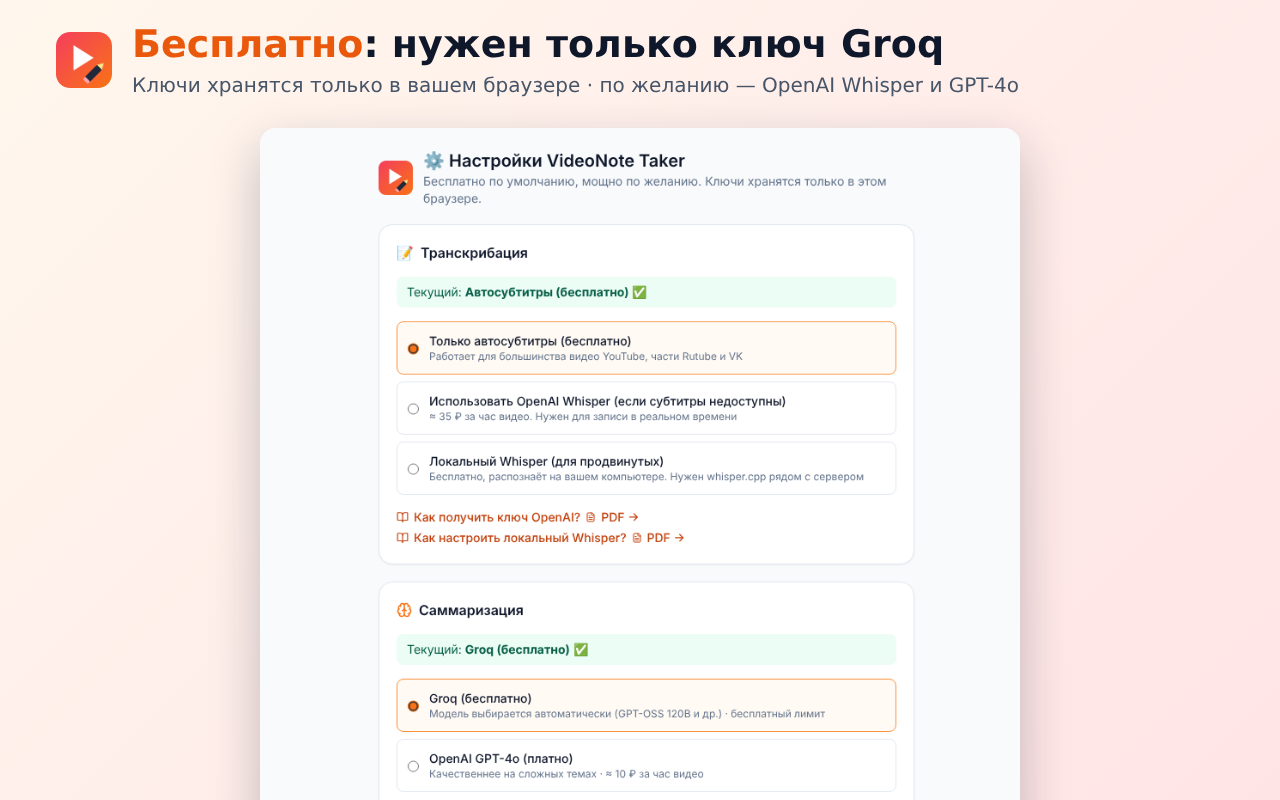
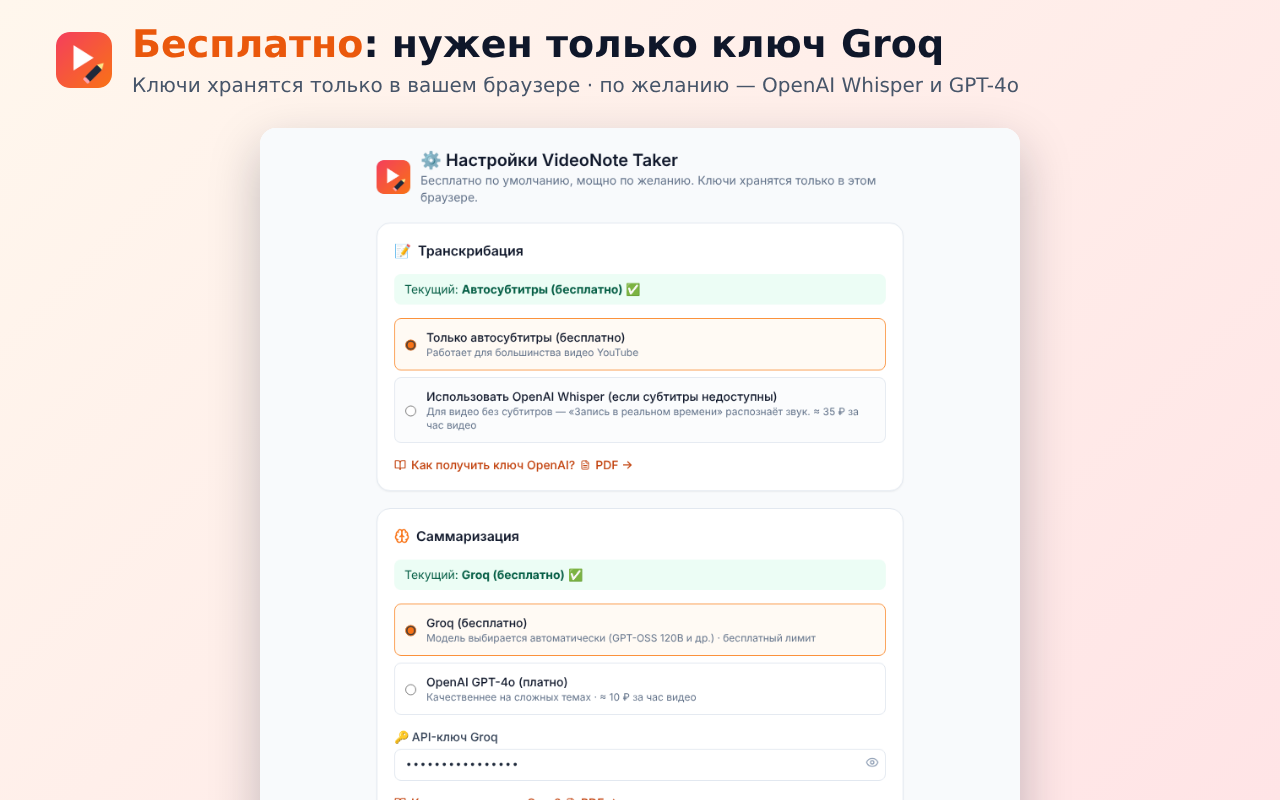
Chrome Web Store: версия «только YouTube», без сервера
- Сборка для магазина работает только на YouTube: content scripts и ресурсы только для
  youtube.com, ссылки Rutube/VK помечаются «пока только YouTube», в настройках нет
  адреса сервера и локального Whisper; краткое описание в манифесте — про YouTube.
- Полная версия (Rutube/VK через свой сервер) остаётся: VITE_YOUTUBE_ONLY / store build.
- Тексты витрины, политика конфиденциальности и ответы для проверки — без сервера.
- e2e: режим E2E_STORE=1 (npm run e2e:store), картинки витрины из версии для магазина.

Claude-Session: https://claude.ai/code/session_01F471TCYQKqYsHZexNvzsfr

diff --git a/extension/src/ui/popup/Popup.tsx b/extension/src/ui/popup/Popup.tsx
@@ -1,7 +1,8 @@
 import { ArrowLeft, Link2, Search, Trash2 } from 'lucide-react';
 import { useEffect, useMemo, useState } from 'react';
 import type { VideoNote } from '@domain/entities/VideoNote';
-import { VIDEO_PLATFORMS, type VideoPlatform } from '@domain/valueObjects/VideoPlatform';
+import { VIDEO_PLATFORMS, VideoPlatform } from '@domain/valueObjects/VideoPlatform';
+import { buildConfig } from '@infrastructure/config';
 import { VIDEO_TYPES, type VideoType } from '@domain/valueObjects/VideoType';
 import { VideoUrl } from '@domain/valueObjects/VideoUrl';
 import { PLATFORM_LABELS, VIDEO_TYPE_LABELS } from '@infrastructure/exporters/labels';
@@ -13,6 +14,11 @@ import { useContainer, useNote, useNotesList, useRealtime, useSettings, useTask 
 import { NoteMeta, NoteView } from '../shared/NoteView';
 
 type Screen = 'new' | 'history';
+
+/** В сборке «только YouTube» ссылки Rutube/VK не принимаются. */
+function isAllowed(url: VideoUrl): boolean {
+  return !buildConfig.youtubeOnly || url.getPlatform() === VideoPlatform.YOUTUBE;
+}
 
 function errorPayload(error: unknown): { code: string; message: string } {
   const e = error as Error & { code?: string };
@@ -31,7 +37,8 @@ function NewNoteScreen() {
   // Ссылка из активной вкладки, если это видео
   useEffect(() => {
     void chrome.tabs.query({ active: true, currentWindow: true }).then(([tab]) => {
-      if (tab?.url && VideoUrl.isSupported(tab.url)) {
+      const tabVideo = tab?.url ? VideoUrl.tryCreate(tab.url) : null;
+      if (tab?.url && tabVideo && isAllowed(tabVideo)) {
         setUrl(tab.url);
         setTitle(tab.title?.replace(/^\(\d+\)\s*/, '').replace(/\s*[-|—]\s*(YouTube|RUTUBE|VK.*)$/i, ''));
         setActiveTabId(tab.id ?? null);
@@ -39,7 +46,8 @@ function NewNoteScreen() {
     });
   }, []);
 
-  const videoUrl = useMemo(() => VideoUrl.tryCreate(url), [url]);
+  const parsedUrl = useMemo(() => VideoUrl.tryCreate(url), [url]);
+  const videoUrl = parsedUrl && isAllowed(parsedUrl) ? parsedUrl : null;
   const noteId = videoUrl?.getKey() ?? null;
   const { note } = useNote(noteId);
   const task = useTask(noteId);
@@ -70,7 +78,7 @@ function NewNoteScreen() {
                 setTitle(undefined);
                 setActiveTabId(null);
               }}
-              placeholder="Ссылка на YouTube, Rutube или VK Видео"
+              placeholder={buildConfig.youtubeOnly ? 'Ссылка на видео YouTube' : 'Ссылка на YouTube, Rutube или VK Видео'}
               className="w-full rounded-lg border border-slate-200 py-2 pl-9 pr-24 text-sm focus:border-orange-400 focus:outline-none"
             />
             {url && (
@@ -80,7 +88,7 @@ function NewNoteScreen() {
                   videoUrl ? 'bg-emerald-50 text-emerald-700' : 'bg-red-50 text-red-600',
                 )}
               >
-                {videoUrl ? `✓ ${PLATFORM_LABELS[videoUrl.getPlatform()]}` : 'не поддерживается'}
+                {videoUrl ? `✓ ${PLATFORM_LABELS[videoUrl.getPlatform()]}` : parsedUrl ? 'пока только YouTube' : 'не поддерживается'}
               </span>
             )}
           </label>
@@ -189,14 +197,16 @@ function HistoryScreen() {
           />
         </div>
         <div className="flex gap-2">
-          <select value={platform} onChange={(e) => setPlatform(e.target.value as VideoPlatform | '')} className="flex-1 rounded-lg border border-slate-200 px-2 py-1 text-xs" aria-label="Платформа">
-            <option value="">Все платформы</option>
-            {VIDEO_PLATFORMS.map((p) => (
-              <option key={p} value={p}>
-                {PLATFORM_LABELS[p]}
-              </option>
-            ))}
-          </select>
+          {!buildConfig.youtubeOnly && (
+            <select value={platform} onChange={(e) => setPlatform(e.target.value as VideoPlatform | '')} className="flex-1 rounded-lg border border-slate-200 px-2 py-1 text-xs" aria-label="Платформа">
+              <option value="">Все платформы</option>
+              {VIDEO_PLATFORMS.map((p) => (
+                <option key={p} value={p}>
+                  {PLATFORM_LABELS[p]}
+                </option>
+              ))}
+            </select>
+          )}
           <select value={type} onChange={(e) => setType(e.target.value as VideoType | '')} className="flex-1 rounded-lg border border-slate-200 px-2 py-1 text-xs" aria-label="Тип видео">
             <option value="">Все типы</option>
             {VIDEO_TYPES.map((t) => (

diff --git a/extension/src/ui/settings/SettingsScreen.tsx b/extension/src/ui/settings/SettingsScreen.tsx
@@ -4,6 +4,7 @@ import type { SettingsFieldError } from '@application/useCases/SaveSettingsUseCa
 import type { BackendHealth } from '@domain/ports/IBackendClient';
 import { SummaryProvider, TranscriptionProvider } from '@domain/valueObjects/Providers';
 import type { UserSettings } from '@domain/valueObjects/UserSettings';
+import { buildConfig } from '@infrastructure/config';
 import { openGuide } from '../shared/actions';
 import { Button, cx, LanguageSelect, Logo, VideoTypeSelector } from '../shared/components';
 import { useContainer, useSettings } from '../shared/hooks';
@@ -148,27 +149,29 @@ export function SettingsScreen() {
               checked={draft.transcriptionProvider === TranscriptionProvider.SUBTITLES}
               onChange={() => set('transcriptionProvider', TranscriptionProvider.SUBTITLES)}
               title="Только автосубтитры (бесплатно)"
-              hint="Работает для большинства видео YouTube, части Rutube и VK"
+              hint={buildConfig.youtubeOnly ? 'Работает для большинства видео YouTube' : 'Работает для большинства видео YouTube, части Rutube и VK'}
             />
             <Radio
               checked={draft.transcriptionProvider === TranscriptionProvider.OPENAI_WHISPER}
               onChange={() => set('transcriptionProvider', TranscriptionProvider.OPENAI_WHISPER)}
               title="Использовать OpenAI Whisper (если субтитры недоступны)"
-              hint="≈ 35 ₽ за час видео. Нужен для записи в реальном времени"
+              hint={buildConfig.youtubeOnly ? 'Для видео без субтитров — «Запись в реальном времени» распознаёт звук. ≈ 35 ₽ за час видео' : '≈ 35 ₽ за час видео. Нужен для записи в реальном времени'}
             />
-            <Radio
-              checked={draft.transcriptionProvider === TranscriptionProvider.LOCAL_WHISPER}
-              onChange={() => set('transcriptionProvider', TranscriptionProvider.LOCAL_WHISPER)}
-              title="Локальный Whisper (для продвинутых)"
-              hint="Бесплатно, распознаёт на вашем компьютере. Нужен whisper.cpp рядом с сервером"
-            />
+            {!buildConfig.youtubeOnly && (
+              <Radio
+                checked={draft.transcriptionProvider === TranscriptionProvider.LOCAL_WHISPER}
+                onChange={() => set('transcriptionProvider', TranscriptionProvider.LOCAL_WHISPER)}
+                title="Локальный Whisper (для продвинутых)"
+                hint="Бесплатно, распознаёт на вашем компьютере. Нужен whisper.cpp рядом с сервером"
+              />
+            )}
           </div>
           {draft.transcriptionProvider === TranscriptionProvider.OPENAI_WHISPER && (
             <KeyInput label="API-ключ OpenAI" value={draft.openaiApiKey ?? ''} onChange={(v) => set('openaiApiKey', v)} placeholder="sk-..." {...(fieldError('openaiApiKey') ? { error: fieldError('openaiApiKey') } : {})} />
           )}
           <div className="flex flex-col gap-1">
             <GuideLink onClick={() => openGuide('openai')}>Как получить ключ OpenAI?</GuideLink>
-            <GuideLink onClick={() => openGuide('local-whisper')}>Как настроить локальный Whisper?</GuideLink>
+            {!buildConfig.youtubeOnly && <GuideLink onClick={() => openGuide('local-whisper')}>Как настроить локальный Whisper?</GuideLink>}
           </div>
         </Section>
 
@@ -201,6 +204,7 @@ export function SettingsScreen() {
             <span className="mb-1 block text-sm font-medium text-slate-700">Тип видео по умолчанию</span>
             <VideoTypeSelector value={draft.defaultVideoType} onChange={(v) => set('defaultVideoType', v)} />
           </div>
+          {!buildConfig.youtubeOnly && (
           <label className="block">
             <span className="mb-1 flex items-center gap-1.5 text-sm font-medium text-slate-700">
               <Server size={14} /> Адрес сервера VideoNote
@@ -223,6 +227,7 @@ export function SettingsScreen() {
               </span>
             )}
           </label>
+          )}
         </Section>
       </div>
 

diff --git a/extension/vite.config.ts b/extension/vite.config.ts
@@ -16,8 +16,16 @@ export const alias = {
 
 // Сборка для Chrome Web Store: без доступа к localhost (публичный сервер отвечает по CORS)
 const isStoreBuild = process.env['VITE_STORE_BUILD'] === 'true';
+const YOUTUBE = (pattern: string): boolean => /youtube\.com/.test(pattern);
+// Магазин: только YouTube, без сервера (Rutube/VK — в полной версии со своим сервером)
 const buildManifest = isStoreBuild
-  ? { ...manifest, host_permissions: manifest.host_permissions.filter((h) => !h.startsWith('http://localhost')) }
+  ? {
+      ...manifest,
+      description: 'Конспекты видео YouTube с таймкодами: идеи, цитаты, выводы, скриншоты, экспорт в Word. Бесплатно с ключом Groq.',
+      host_permissions: manifest.host_permissions.filter((h) => !h.startsWith('http://localhost')),
+      content_scripts: manifest.content_scripts.map((cs) => ({ ...cs, matches: cs.matches.filter(YOUTUBE) })),
+      web_accessible_resources: manifest.web_accessible_resources.map((r) => ({ ...r, matches: r.matches.filter(YOUTUBE) })),
+    }
   : manifest;
 
 export default defineConfig({

diff --git a/extension/src/infrastructure/config.ts b/extension/src/infrastructure/config.ts
@@ -9,6 +9,8 @@ export const buildConfig = {
    * (правила магазина запрещают скачивание видео с YouTube; сервер — для Rutube и VK).
    */
   storeBuild: import.meta.env.VITE_STORE_BUILD === 'true',
+  /** Только YouTube, без сервера (сборка для Chrome Web Store; Rutube/VK — позже) */
+  youtubeOnly: import.meta.env.VITE_STORE_BUILD === 'true' || import.meta.env.VITE_YOUTUBE_ONLY === 'true',
   /** Запасной путь YouTube через свой сервер (только если у сервера есть доступ к YouTube) */
   youtubeViaServer: import.meta.env.VITE_YOUTUBE_VIA_SERVER === 'true',
 } as const;

diff --git a/extension/src/vite-env.d.ts b/extension/src/vite-env.d.ts
@@ -5,6 +5,7 @@ interface ImportMetaEnv {
   readonly VITE_GROQ_BASE_URL?: string;
   readonly VITE_STORE_BUILD?: string;
   readonly VITE_YOUTUBE_VIA_SERVER?: string;
+  readonly VITE_YOUTUBE_ONLY?: string;
 }
 
 interface ImportMeta {

diff --git a/store/README.md b/store/README.md
@@ -3,10 +3,9 @@
 ## Что нужно заранее
 1. **Публичный репозиторий** — https://github.com/Tickling/videonote-taker → Settings → Danger Zone → Change visibility → Public.
    Нужен для страницы политики конфиденциальности и установки сервера.
-2. **Сервер** (необязательно, для Rutube/VK) — см. `deploy/README.md`. Получите его адрес `https://…`.
-3. **Пакет расширения** с адресом сервера:
-   `VITE_BACKEND_URL=https://АДРЕС npm run store:package` → `release/VideoNote-Taker-ChromeWebStore-1.0.0.zip`
-   (без сервера: `npm run store:package` — YouTube работает, Rutube/VK — только со своим сервером).
+2. **Пакет расширения** (версия «только YouTube», сервер не нужен):
+   `npm run store:package` → `release/VideoNote-Taker-ChromeWebStore-1.0.0.zip`
+   (Rutube/VK появятся позже: понадобится сервер, см. `deploy/README.md`).
 
 ## Шаги в магазине
 1. Откройте https://chrome.google.com/webstore/devconsole, войдите в Google-аккаунт.
